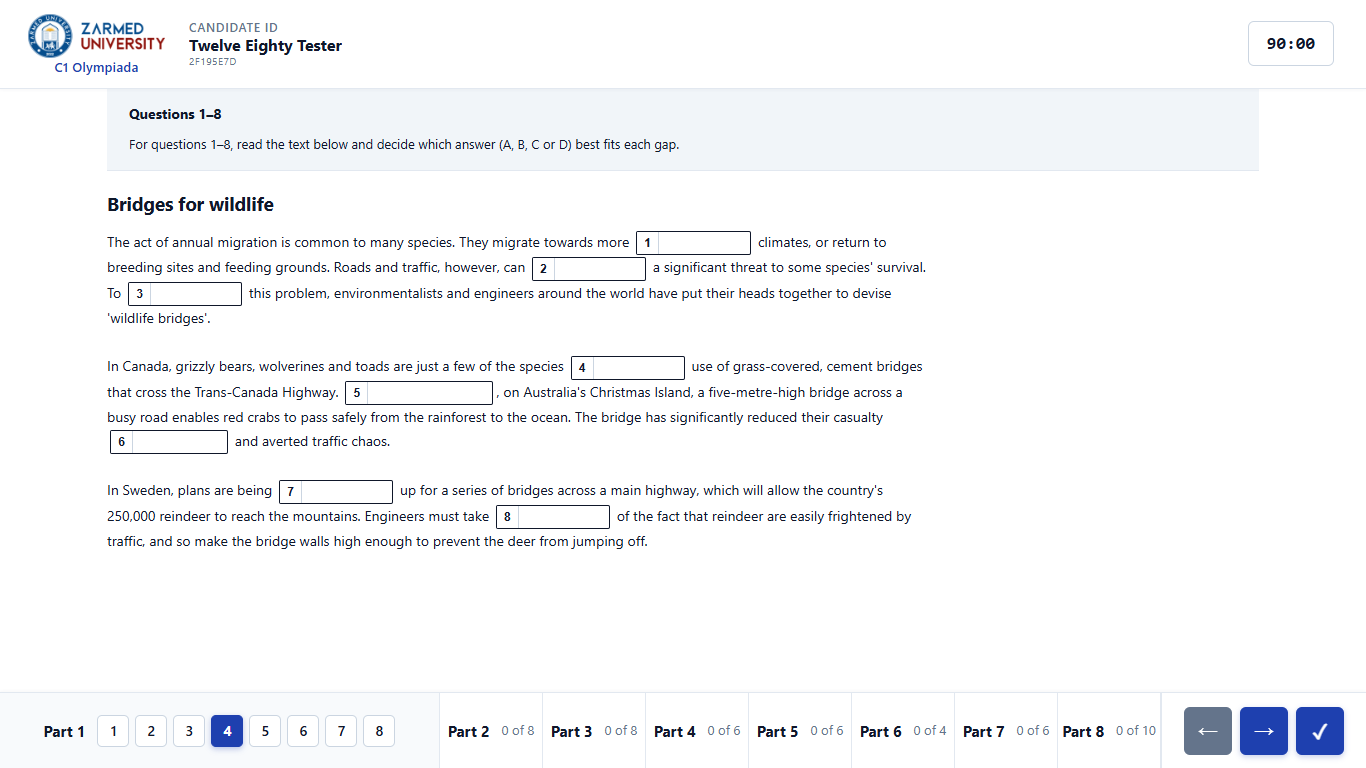
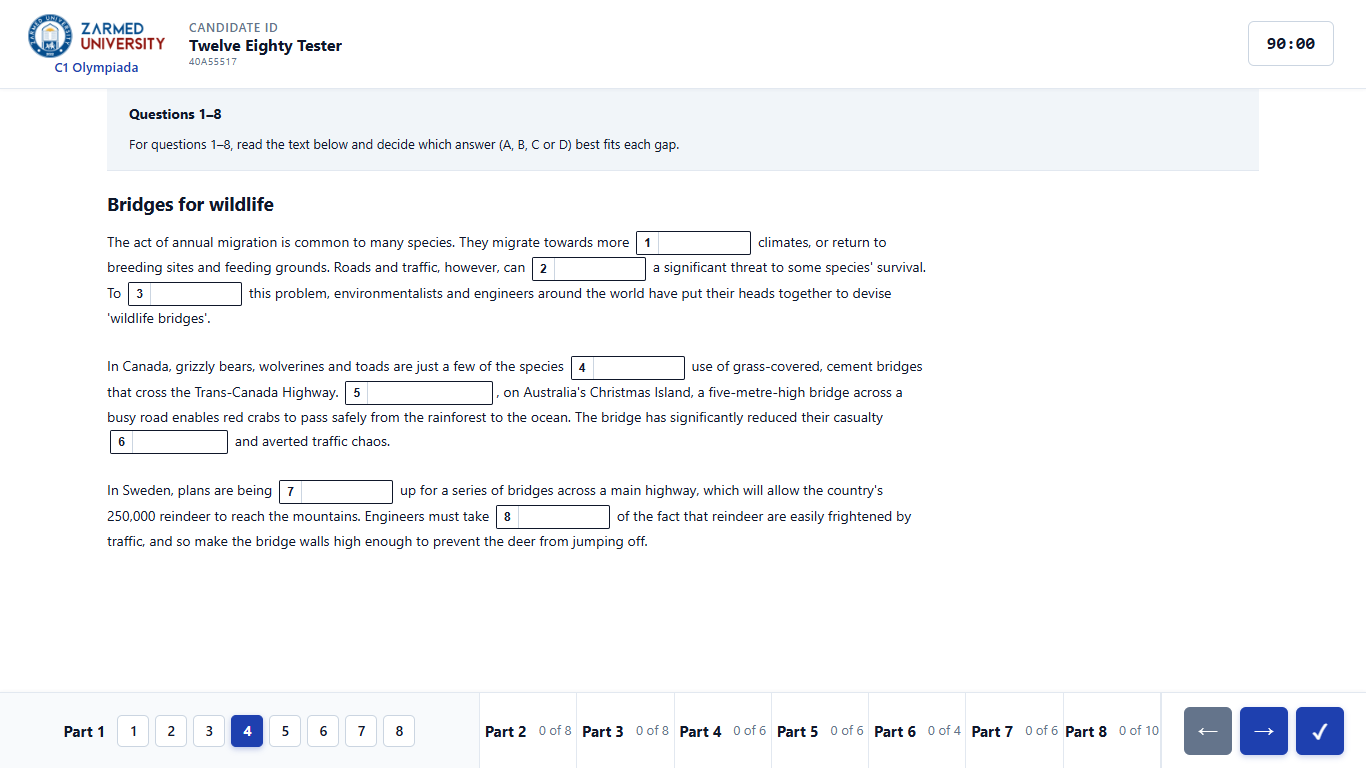
eye: round 29b — extend medium-viewport breakpoint to cover 1280/1366
Follow-up to round 28b. That fix covered 881-1199px only, so at
1280x720 and 1366x768 (two of the most common lab-PC resolutions)
the nav question numbers fell through to the desktop rules and
wrapped into a cramped 2-row stack — visible but inconsistent with
cae/examples/*.png which shows 1 row regardless of viewport.

Measured at 1366x768 on HEAD (before fix):
  p1: numCount=8 numsInRows=2 (4 + 4)
  p4: numCount=6 numsInRows=2 (3 + 3)
  p8: numCount=10 numsInRows=2 (5 + 5)

After extending breakpoint to 881-1399px + bumping min-width 440→480:
  p1: numsInRows=1, lastNumRight 415px vs cell 480px (65px spare)
  p4: numsInRows=1, lastNumRight 686px vs cell 772px (86px spare)
  p8: numsInRows=1, lastNumRight 1162px vs cell 1161px (1px rounding)

The 480px min-width math:
  label ~50 + label margin 12 + 10 nums × 32 (320) + 9 gaps × 6 (54)
  + inner padding 32 + breathing 12 = 480

At 1400+ desktop rules take over: flex:3.5 gives enough natural width
for 10 numbers on one row with room to spare.

Screenshots: r29-1280-p1 / p4 / p8 at 1366x768.

Changed region(s): [[0.0307, 0.9062, 0.8609, 1.0], [0.123, 0.0625, 0.1845, 0.0938]]

diff --git a/zarmet-olympiada/public/css/styles.css b/zarmet-olympiada/public/css/styles.css
@@ -1643,7 +1643,9 @@ body.zu-test-body .ct-nav-finish:focus-visible {
   .ct-nav-part { min-width: 90px; padding: 10px 10px; }
   .ct-nav-part--active {
     flex: 4;
-    min-width: 440px;
+    /* 480 = label "Part 8" (~50) + margin-right (12) + 10 nums (320)
+     * + 9 gaps (54) + inner padding (32) + breathing (12) */
+    min-width: 480px;
   }
   .ct-nav-part-numbers { flex-wrap: nowrap; }
 }
